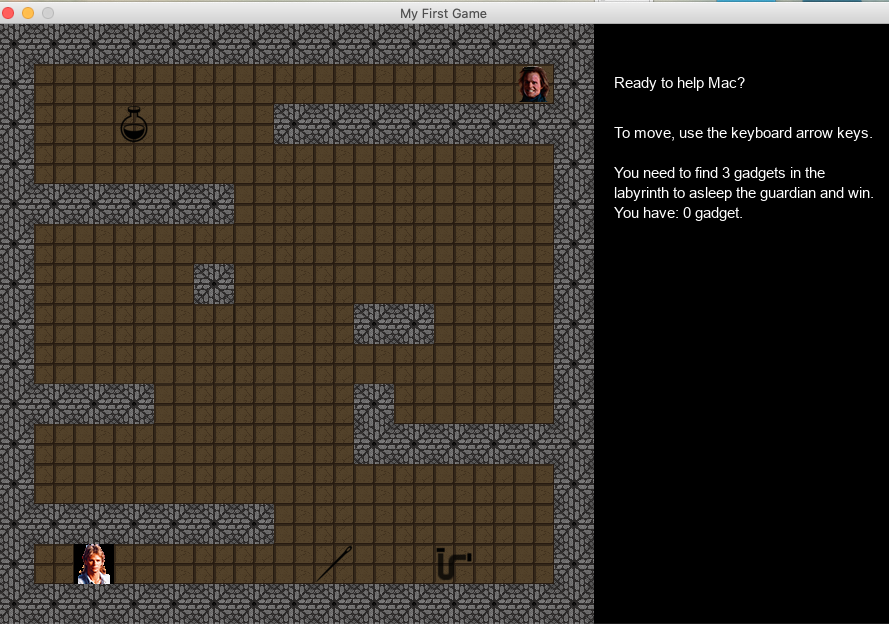
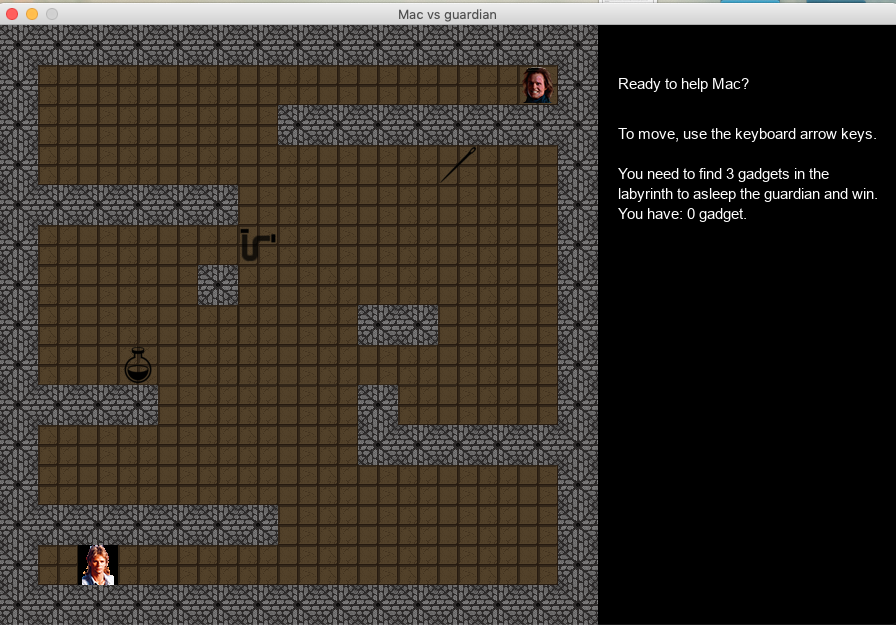
change title of game

Changed region(s): [[0.0, 0.0, 1.0, 1.0], [0.6985, 0.1827, 0.9719, 0.2436]]

diff --git a/Gui.py b/Gui.py
@@ -43,7 +43,7 @@ class Gui:
         self.font_menu = pygame.font.SysFont('Arial', 15)
 
         self.window = pygame.display.set_mode(size)
-        pygame.display.set_caption("My First Game")
+        pygame.display.set_caption("Mac vs guardian")
         """
               Init pygame.
                 Parameters:
